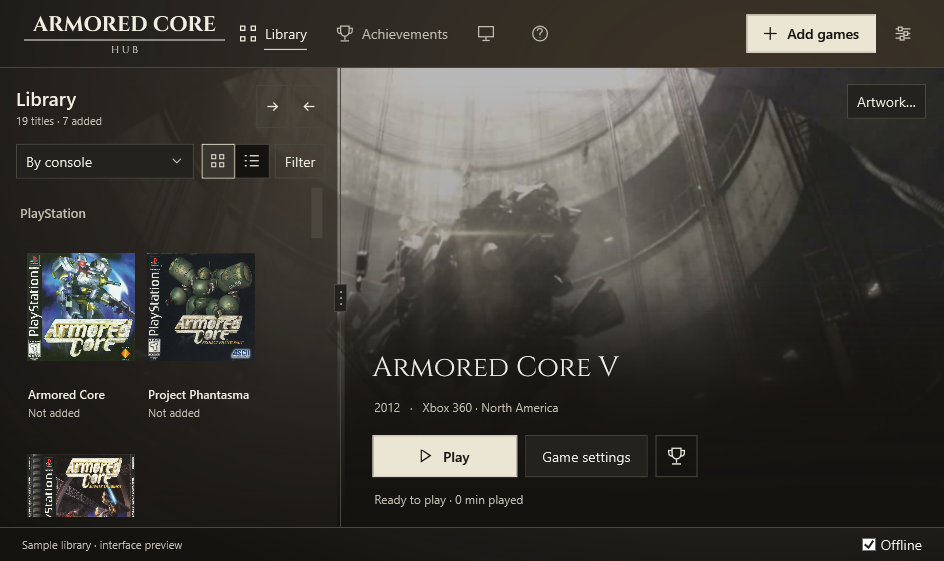
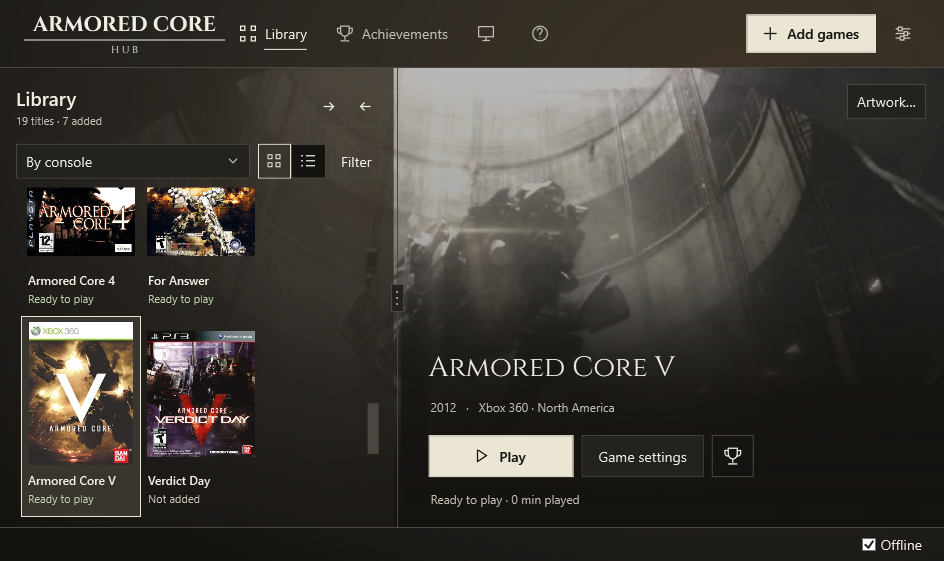
Simplify the screenshot gallery, refresh the tour and link issue reporting

diff --git a/docs/usage.md b/docs/usage.md
@@ -1,22 +1,8 @@
-# Armored Core Hub
+# How do I use the Hub?
 
-A portable Windows library and compatibility manager for the earlier Armored Core generations.
+Add your Armored Core collection and let the Hub handle emulator setup. This guide covers the supported console and Portable editions, settings and troubleshooting. See [what we've tested](testing/COVERAGE.md) for the limits of our gameplay checks.
 
-Time played is shown beside each selected edition's status. Available DuckStation, PCSX2 and RPCS3 history seeds its portable ledger once; all five backends then track Hub-launched emulator sessions. Setup is excluded; menus/loading/pauses are included. A 30-second checkpoint runs only during play and stops with the session. Native histories copied between builds are not counted twice.
-
-Closing the Hub during a game asks for confirmation, then stops the owned emulator/helpers, protects saves and commits playtime before the window closes. Windows jobs also clean up owned child processes on unexpected owner exit. Installed emulator builds are shared; game settings/saves remain isolated, and explicitly selected compatibility versions stay pinned. A valid installed build is reused without a download or cached archive.
-
-Settings → About and legal opens the anti-piracy notice and separate license tabs. Game/BIOS imports use local files; see [legal notice](../LEGAL.md).
-
-**Baseline 0.3.10:** a working native application with a cinematic library, local imports, edition selection, immutable emulator installation, generated configurations, saves, diagnostics and signed-catalog updates. This is an engineering preview, not a claim that every game is certified playable.
-
-Game covers download automatically and remain cached for offline use. Edition choices select regional/platform artwork; 17 uncommon or digital editions use documented fallbacks. Artwork provides source credits and retry, and Settings can disable automatic downloads. The ZIP contains cover metadata, not the copyrighted image set. See [cover sources and limits](research/cover-art.md).
-
-After import, **Help** shows the selected game's setup checklist. Green checks identify available game files, its emulator and its BIOS/system software; the next action points to the remaining requirement. **Import system files…** accepts ZIP and 7z archives, validates their contents and selects one compatible BIOS for the game's region. Other-console firmware never completes this game's requirement. PS3 updates distinguish imported files from installation pending on first Play.
-
-Added games use their discovered cinematic still/video, or a dim, softened high-quality cover backdrop while no cinematic is available. Portrait fallback covers are cropped around their center and stay centered as the window resizes. AC2, Last Raven and Xbox ACV openings can be read directly from their ISO file extents without unpacking the discs. Small menu icons stay small. Generated previews remain local and are never bundled. See [disc previews](research/disc-cinematic-previews.md).
-
-## Start
+## Start playing
 
 1. Extract the Windows x64 package into a writable folder.
 2. Run ArmoredCoreHub.exe. The published package needs no separate .NET installation.
@@ -24,6 +10,26 @@ Added games use their discovered cinematic still/video, or a dim, softened high-
 4. Select a game and edition. Its primary action identifies the next missing component.
 5. Install the indicated emulator. Add owned PS1/PS2 BIOS dumps or download official PS3 system software. PSP and Xbox 360 need no separate BIOS.
 6. Click **Play** when prerequisites are ready.
+
+The selected game's checklist shows which steps are complete and what to do next. You do not need to configure a supported emulator manually for the default setup; advanced changes stay optional.
+
+If something goes wrong, check the [issue tracker](https://github.com/peachyGT/armored-core-hub/issues) and use the [bug-report form](https://github.com/peachyGT/armored-core-hub/issues/new?template=bug.yml). Include your Hub version, steps and what happened. Game/setup details and logs or screenshots are optional.
+
+## Your collection and progress
+
+Time played is shown beside each selected edition's status. Available DuckStation, PCSX2 and RPCS3 history seeds its portable ledger once; all five backends then track Hub-launched emulator sessions. Setup is excluded; menus/loading/pauses are included. A 30-second checkpoint runs only during play and stops with the session. Native histories copied between builds are not counted twice.
+
+Closing the Hub during a game asks for confirmation, then stops the owned emulator/helpers, protects saves and commits playtime before the window closes. Windows jobs also clean up owned child processes on unexpected owner exit. Installed emulator builds are shared; game settings/saves remain isolated, and explicitly selected compatibility versions stay pinned. A valid installed build is reused without a download or cached archive.
+
+Settings → About and legal opens the anti-piracy notice and separate license tabs. Game/BIOS imports use local files; see [legal notice](../LEGAL.md).
+
+**This is an early preview.** We have checked launches and sampled gameplay in our harnesses; full playthroughs and every console/region edition are not confirmed. See [what we have tested](testing/COVERAGE.md).
+
+Game covers download automatically and remain cached for offline use. Edition choices select regional/platform artwork; 17 uncommon or digital editions use documented fallbacks. Artwork provides source credits and retry, and Settings can disable automatic downloads. The ZIP contains cover metadata, not the copyrighted image set. See [cover sources and limits](research/cover-art.md).
+
+After import, **Help** shows the selected game's setup checklist. Green checks identify available game files, its emulator and its BIOS/system software; the next action points to the remaining requirement. **Import system files…** accepts ZIP and 7z archives, validates their contents and selects one compatible BIOS for the game's region. Other-console firmware never completes this game's requirement. PS3 updates distinguish imported files from installation pending on first Play.
+
+Added games use their discovered cinematic still/video, or a dim, softened high-quality cover backdrop while no cinematic is available. Portrait fallback covers are cropped around their center and stay centered as the window resizes. AC2, Last Raven and Xbox ACV openings can be read directly from their ISO file extents without unpacking the discs. Small menu icons stay small. Generated previews remain local and are never bundled. See [disc previews](research/disc-cinematic-previews.md).
 
 Recognized copies arrive with the game, console and region selected. PS3 ISOs with readable metadata and executable data can launch directly on supported RPCS3 builds. For the sampled AC4 EU and For Answer US editions, **Repair setup** selects the older build that passed opening-mission testing; it prepares a separate game folder when needed, keeping the ISO, saves and previous emulator build. Encrypted, conflicting or incomplete images show a corrective step instead of being registered as ready. Scans skip inaccessible files and record them in `logs/last-scan.json`.
 

diff --git a/README.md b/README.md
@@ -8,7 +8,7 @@ Easiest way to enjoy Armored Core.
 <p>
   <a href="https://github.com/peachyGT/armored-core-hub/releases">Download</a> ·
   <a href="docs/usage.md">User guide</a> ·
-  <a href="https://github.com/peachyGT/armored-core-hub/issues">Report a bug</a> ·
+  <a href="https://github.com/peachyGT/armored-core-hub/issues/new?template=bug.yml">Report a bug</a> ·
   <a href="CONTRIBUTING.md">Contribute</a>
 </p>
 
@@ -20,9 +20,11 @@ Easiest way to enjoy Armored Core.
 
 ![The Hub's library and selected-game view](docs/media/library-wide-desktop.png)
 
-Automatically and easily install literally any game in the series. No more messing around with emulators. The Hub covers PlayStation, PlayStation 2, PSP, PlayStation 3 and Xbox 360 editions through DuckStation, PCSX2, PPSSPP, RPCS3 and Xenia Canary.
+Add your Armored Core games and let the Hub handle emulator setup for you. It automatically downloads, installs and configures DuckStation, PCSX2, PPSSPP, RPCS3 and Xenia Canary for the supported PlayStation, PlayStation 2, PSP, PlayStation 3 and Xbox 360 editions.
 
-**This is an early preview.** So far, I've confirmed that all games launch and work at stable framerates on my machines; full back to back game completion isn't 100% confirmed yet. See the [feature matrix](docs/feature-matrix.md) and [known limits](BLOCKED.md) before relying on a particular feature or game. Please submit issues you're having in the issue tracker using this template. 
+**This is an early preview.** So far, the games we've tried in our autonomous harnesses launch and run at stable framerates on our test machines. Full playthroughs and every console/region edition aren't 100% confirmed yet. See [what we've tested](docs/testing/COVERAGE.md), the [feature matrix](docs/feature-matrix.md) and [known limits](BLOCKED.md).
+
+Please submit issues you're having in the [issue tracker](https://github.com/peachyGT/armored-core-hub/issues) using the [bug-report form](https://github.com/peachyGT/armored-core-hub/issues/new?template=bug.yml). Your Hub version, steps and what went wrong are enough to start; logs or screenshots help.
 
 ## What it does
 
@@ -31,44 +33,45 @@ Automatically and easily install literally any game in the series. No more messi
 - Groups the library by console or generation, with an adjustable library pane and cinematic video backgrounds when your game supports them.
 - Tracks supported native trophies and achievements, or RetroAchievements sets where available. Not every game has a set.
 - Tracks your playtime in each game.
-- Lets you edit keyboard and controller bindings by game action (Per game), with separate Default, Community, Custom and imported profiles.
-- Provides graphics settings, patch management, verified save backups and time played.
+- Lets you edit keyboard and controller bindings by game action, with separate Default, Community, Custom and imported profiles for each game.
+- Provides graphics settings, patch management and verified save backups.
 - Warns before closing a running game and stops emulator/helper processes launched by the Hub when it exits.
-
-## A look inside
-
-![A short tour of the library, controls and setup checklist](docs/media/tour.gif)
-
-The captures show the real native interface in an isolated preview copy. No game was launched to make them. Game artwork belongs to its respective owners; no game files or reusable artwork collection are included in the download.
-
-| Library across generations | Compact game view |
-| --- | --- |
-| [![A wide library view with Armored Core 2 selected](docs/media/early-generations.png)](docs/media/early-generations.png) | [![Armored Core V at a smaller window size](docs/media/compact-game.png)](docs/media/compact-game.png) |
-| Keep editions grouped while the scene fills the remaining space. | The same library and game actions adapt to a smaller window. |
-
-| Edit bindings by action | Per-game graphics settings |
-| --- | --- |
-| [![Editable keyboard action rows](docs/media/controls.png)](docs/media/controls.png) | [![Graphics presets, rendering scale and output settings](docs/media/graphics.png)](docs/media/graphics.png) |
-| Each row shows the action, game button and binding, with its own reset. | Rendering scale, window resolution and supported FPS targets stay separate. |
-
-<details>
-<summary>More screenshots: the PS2 library and setup checklist</summary>
-
-![A filtered PS2 library with Last Raven selected](docs/media/ps2-library.png)
-
-![The selected game's setup checklist](docs/media/setup.png)
-
-</details>
 
 ## How do I use this?
 
 1. Download the Windows x64 ZIP from [Releases](https://github.com/peachyGT/armored-core-hub/releases) and extract it into a writable folder.
 2. Run `ArmoredCoreHub.exe`. The package includes .NET; no separate installation is needed.
-3. Choose **Add games** and select a folder where your games are located or collection folder.
+3. Choose **Add games** and select the folder where your games are located.
 4. Follow the selected game's prompts to have the Hub install its emulator and add any required system files, then click **Play**.
 5. Enjoy!
 
-Windows 10 or 11 x64 is required. Emulator hardware requirements still apply. PS1 and PS2 need compatible BIOS dumps. ZIP and 7z BIOS imports are supported. See the [user guide](docs/usage.md) for formats, settings and troubleshooting.
+The checklist shows what's done and what your selected game still needs.
+
+[![The selected game's setup checklist](docs/media/setup.png)](docs/media/setup.png)
+
+Windows 10 or 11 x64 is required. Emulator hardware requirements still apply. PS1 and PS2 need compatible BIOS dumps; PS3 uses official system software, which the Hub can download. ZIP and 7z BIOS imports are supported. See the [user guide](docs/usage.md) for formats, settings and troubleshooting.
+
+## A look inside
+
+![A short tour of the library, controls, graphics and setup](docs/media/tour.gif)
+
+The captures show the real native interface in an isolated preview copy. No game was launched to make them. Game artwork belongs to its respective owners; no game files or reusable artwork collection are included in the download.
+
+### PS3 and Xbox 360 games
+
+[![The later console library entries with Armored Core V selected](docs/media/later-generations.png)](docs/media/later-generations.png)
+
+### Change bindings by game action
+
+[![Editable keyboard action rows with individual reset buttons](docs/media/controls.png)](docs/media/controls.png)
+
+### Graphics settings for each game
+
+[![Graphics presets, rendering scale, screen resolution and target FPS](docs/media/graphics.png)](docs/media/graphics.png)
+
+### Earlier generations
+
+[![A filtered PS2 library with Last Raven selected](docs/media/ps2-library.png)](docs/media/ps2-library.png)
 
 ## Build
 

diff --git a/docs/feature-matrix.md b/docs/feature-matrix.md
@@ -1,17 +1,19 @@
 # Baseline acceptance map
 
+For a short explanation of what has and has not been checked, see [test coverage](testing/COVERAGE.md). The README's gameplay report refers to the titles exercised in our harnesses, not every console/region edition or completed playthrough.
+
 | Requirement | Result |
 |---|---|
 | Portable native application and library | Implemented, self-contained WPF x64 |
 | First run / selected folder and file import | Implemented, honest empty state |
 | Archive import | Single-file 7z/ZIP/RAR → bounded native 7zr for supported 7z, managed fallback → existing identification; phase progress/timing logs; one AC3 extraction sample 4.43× faster with matching hashes. RAR reader needs dedicated verification |
-| Default input | Keyboard defaults for all five backends; sampled keyboard combat on PS1/PS2/PSP/PS3. User verified AC2 original/patched dual sticks and AC4 controller/reconnect. Xenia menus respond; physical testing remains open |
+| Default input | Keyboard defaults for all five backends; sampled keyboard combat on PS1/PS2/PSP/PS3. User verified AC2 original/patched dual sticks and AC4 controller/reconnect. ACV keyboard/menu and user-reported controller movement/camera/pause checks pass; unsampled layouts and remaining reconnect checks stay open |
 | Edition identity | 15 games, 100 product/disc/region records |
 | Exact dump verification | Mechanism tested; production reference hashes incomplete |
 | Provisioning and build selection | Five upstream adapters, pinned hashes, retained versions; installed builds automatically recognized across editions, explicit pins retained, per-edition recommendations/regression repair |
 | Alternate backend selection | Profile model supports it; baseline has one family per console, PS3/360 are separate editions |
 | System-file management | Selected-game checklist; bounded ZIP/7z import chooses one validated compatible BIOS using ROMDIR/ROMVER/region/hash metadata; PS1 reviewed hashes, official PS3 update download with imported/installed distinction |
-| Configuration and launch | Real-media campaign in progress on eight editions. AC4/For Answer tutorial and save/reload checks pass; first-mission 20250 freezes have a sampled 20152 fallback; explicit repair prepares ISO/Joliet folders and keeps originals. Xenia's first local-profile creation remains a setup gap |
+| Configuration and launch | Detailed real-media campaign records cover eight editions. AC4/For Answer tutorial and save/reload checks pass; first-mission 20250 freezes have a sampled 20152 fallback; explicit repair prepares ISO/Joliet folders and keeps originals. Fresh managed Xenia storage creates a native offline player; first-story save/reload and unsampled editions remain separate verification tasks |
 | Graphics | Distinct presets, supported independent scale/window size/FPS limit, advanced profile values; gameplay-dependent timing/scaling remains unverified |
 | Patch manager | Local PNACH with named options/version editing; bounded PPF1/2/3 creates a separate image; source/payload fingerprints and original-preserving disable. Author bytes not bundled |
 | Achievement tracking | Default supported integration; in-Hub RetroAchievements sign-in/defaults/edition overrides with protected native token and no web API key. All 23 title/platform combinations have explicit support; five early sets published, PS3 AC4/FA trophy-less. Native Xenia local profile creation/selection, bounded account/set records and restore-safe unlock history; locked/color provider art. Missing supplied art remains a trophy fallback. Live RA/real unlocks unverified |

diff --git a/PRODUCT.md b/PRODUCT.md
@@ -14,7 +14,7 @@ Players with legitimate Armored Core collections who want to play the emulation-
 Import a collection, identify its editions, provision the appropriate runtime, apply an explicit compatibility profile, and play. The accumulated game-specific knowledge is the product.
 
 ## Operating Context
-Portable Windows folder, optional external media storage, offline play after setup. Ordinary use is a desktop library with controller-based gameplay. Do not assume a controller is attached. No accounts, servers, telemetry, or registry-dependent installation.
+Portable Windows folder, optional external media storage, offline play after setup. Ordinary use is a desktop library with keyboard or controller gameplay. Do not assume a controller is attached. No Hub account, hosted server, telemetry or registry-dependent installation is required. RetroAchievements sign-in is optional.
 
 ## Capabilities and Constraints
 Separate games, editions, media, backends, builds, compatibility, enhancements, patches, extensions, saves, and artwork. Current native Windows releases are excluded. Download providers are for authorized redistributable assets and official firmware; no commercial game or proprietary BIOS discovery/download providers. Future commercial media delivery requires a separate rights-cleared provider and is not in this baseline.
@@ -35,7 +35,7 @@ The 0.3.2 refinement preserves that composition. A compact three-dot divider has
 A versioned artwork manifest maps every catalog edition to a cover or an explicit same-platform fallback. The Hub downloads selected covers to its hash-verified local cache, retaining source credits and original copyright. Regional and PSP/PS2 art remain distinct. Custom covers take priority. Offline mode and the automatic-download preference control network use; manual retry is available under Artwork. The standard package contains source metadata, not a bundled copyrighted cover set.
 
 ## Evidence on Hand
-No commercial game media, owned BIOS, gameplay test evidence, or redistributable cover-art set supplied. The user has supplied game/album artwork and UI screenshots as private design references; review prototypes may use those references without adding them to the application package. Local .NET 10.0.401 toolchain present. Research is recorded with access date and confidence in docs/research.
+Owned media and BIOS supplied for private testing remain outside source and release packages. Sampled gameplay evidence is recorded in docs/testing; it does not cover every console/region edition or full playthrough. Xbox 360 testing is limited to V and Verdict Day, as clarified by the maintainer on 2026-10-14. Presentation captures show existing game artwork inside the native UI; no reusable artwork set is bundled. Local .NET 10.0.401 toolchain present. Research is recorded with access date and confidence in docs/research.
 
 ## Product Principles
 - Evidence precedes compatibility claims.

diff --git a/docs/testing/COVERAGE.md b/docs/testing/COVERAGE.md
@@ -1,0 +1,11 @@
+# What we've tested
+
+We've checked launches and sampled gameplay with our autonomous harnesses. These checks cover the games we tried on our test machines; they do not certify every region, console version, control profile or full playthrough.
+
+The maintainer clarified on 2026-10-14 that Xbox 360 testing is limited to Armored Core V and Verdict Day. The Xbox 360 versions of Armored Core 4 and For Answer have not been tested. The detailed published Xenia record is for V; this clarification does not add measured Verdict Day results or whole-game certification.
+
+The [gameplay report](2026-10-10/RESULTS.md) records editions, sampled controls, graphics, saves and problems found. It includes AC4 and For Answer on PS3, with an older RPCS3 build used after a newer build stalled. Stable framerates in those sampled runs are not a promise for every PC, mission or emulator build.
+
+Application tests are separate. The default suite currently has 205 checks; optional BIOS, SDL and MP4 fixtures brought the [0.3.10 audit](2026-10-13-playtime-shutdown/RESULTS.md) to 209. Fresh and relocated portable copies each passed 50 native app checks. These test the Hub's behavior, not completion of the games.
+
+The Hub imports your local game files and automatically downloads and configures the supported emulators. It does not download commercial games. AC VI and Windows Mobile releases are outside the current catalog. Some formats, achievement sets and community bindings have specific limits; see the [feature matrix](../feature-matrix.md) and [known limits](../../BLOCKED.md).

diff --git a/docs/media/README.md b/docs/media/README.md
@@ -6,4 +6,4 @@ The wordmarks use the project's Cinzel font, converted to SVG outlines. Its SIL 
 
 The displayed covers and For Answer background are existing game artwork. They belong to their respective owners and are not covered by the Hub's MIT license. Cover sources and credits are recorded in [the artwork report](../research/cover-art.md). The full source images and user library are not published here. These previews do not provide a reusable game-art pack.
 
-`tour.gif` is an annotated sequence of native captures showing library resizing, controls and the setup checklist. It demonstrates the interface, not gameplay or benchmark results.
+`tour.gif` is a framed sequence of native captures showing later console/Portable entries, controls, graphics and the setup checklist, with short fades between views. It has no extra footer. The native library is scrolled in selected captures so PS3, Xbox 360 and PSP entries remain visible. The tour demonstrates the interface, not gameplay or benchmark results.

diff --git a/CONTRIBUTING.md b/CONTRIBUTING.md
@@ -1,5 +1,13 @@
 # Contributing
 
+## Report an issue
+
+Check the [issue tracker](https://github.com/peachyGT/armored-core-hub/issues), then use the [bug-report form](https://github.com/peachyGT/armored-core-hub/issues/new?template=bug.yml). It asks for your Hub version, steps and what happened. Game/setup details and screenshots or logs are optional.
+
+For a new idea, use the [feature-request form](https://github.com/peachyGT/armored-core-hub/issues/new?template=feature.yml).
+
+## Work on the Hub
+
 Keep the product specific to Armored Core. Read PRODUCT.md, DESIGN.md and the ADRs.
 
 Use .NET 10 and run scripts/build.ps1 -Test. Commercial media, BIOS, saves and private paths must never enter source fixtures, commits or packages. Tests generate synthetic ISO/SFO/XEX examples.

diff --git a/docs/capabilities.md b/docs/capabilities.md
@@ -1,4 +1,6 @@
 # Capability inventory
+
+Current publication: [GitHub repository](https://github.com/peachyGT/armored-core-hub), a Windows preview release and Windows build/test CI are live. User library files, BIOS, credentials, saves and local tools remain outside the uploaded source. The entries below record what was available at each earlier inspection date.
 Inspected 2026-10-09. User authorized the engineering/build/test task and sensible local Git checkpoints.
 
 | Capability | Scope / evidence |
